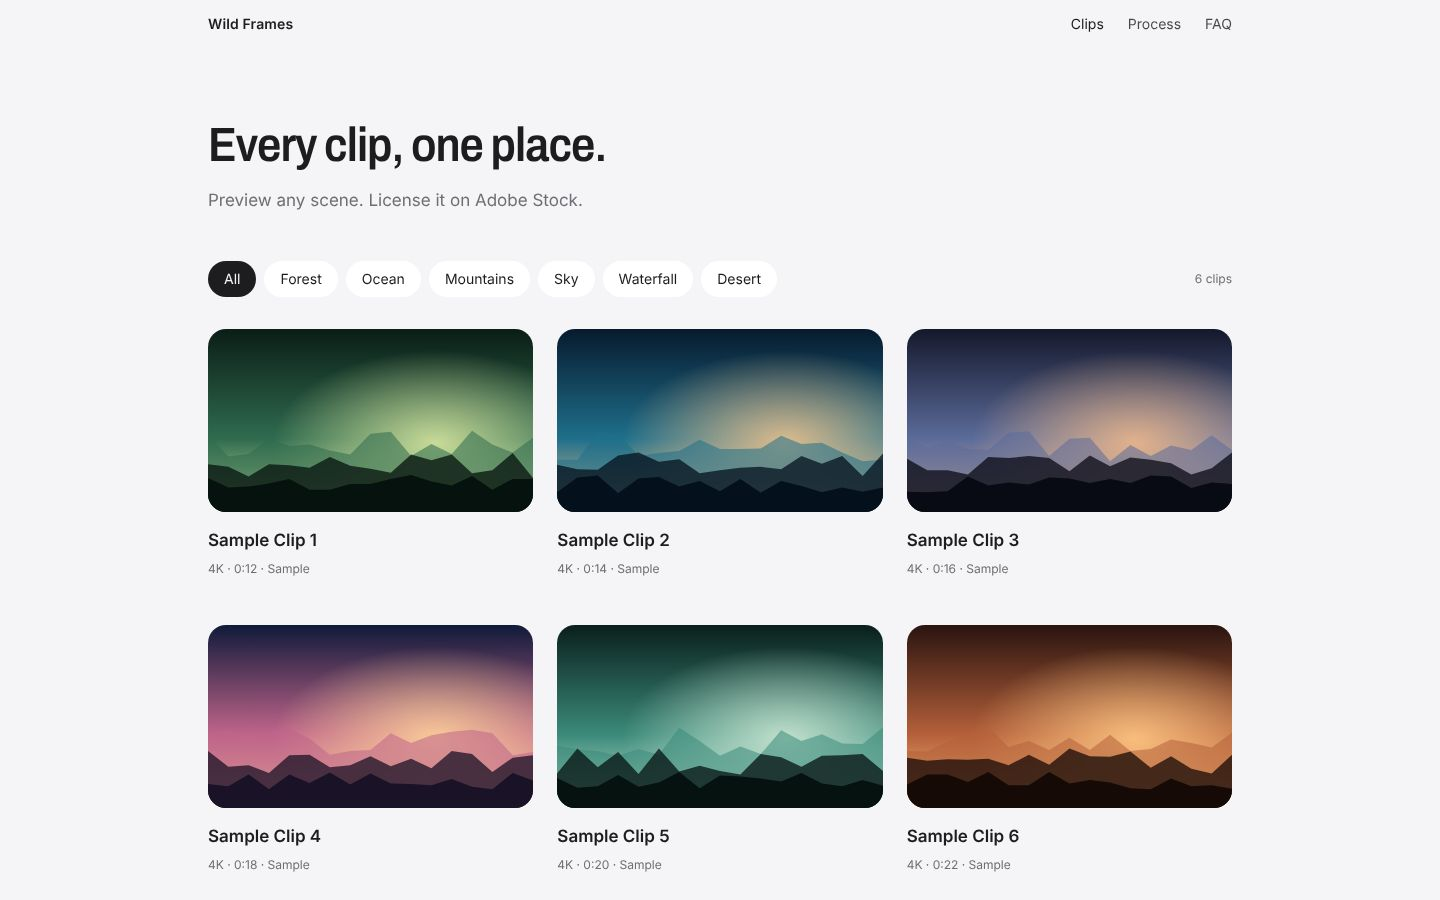
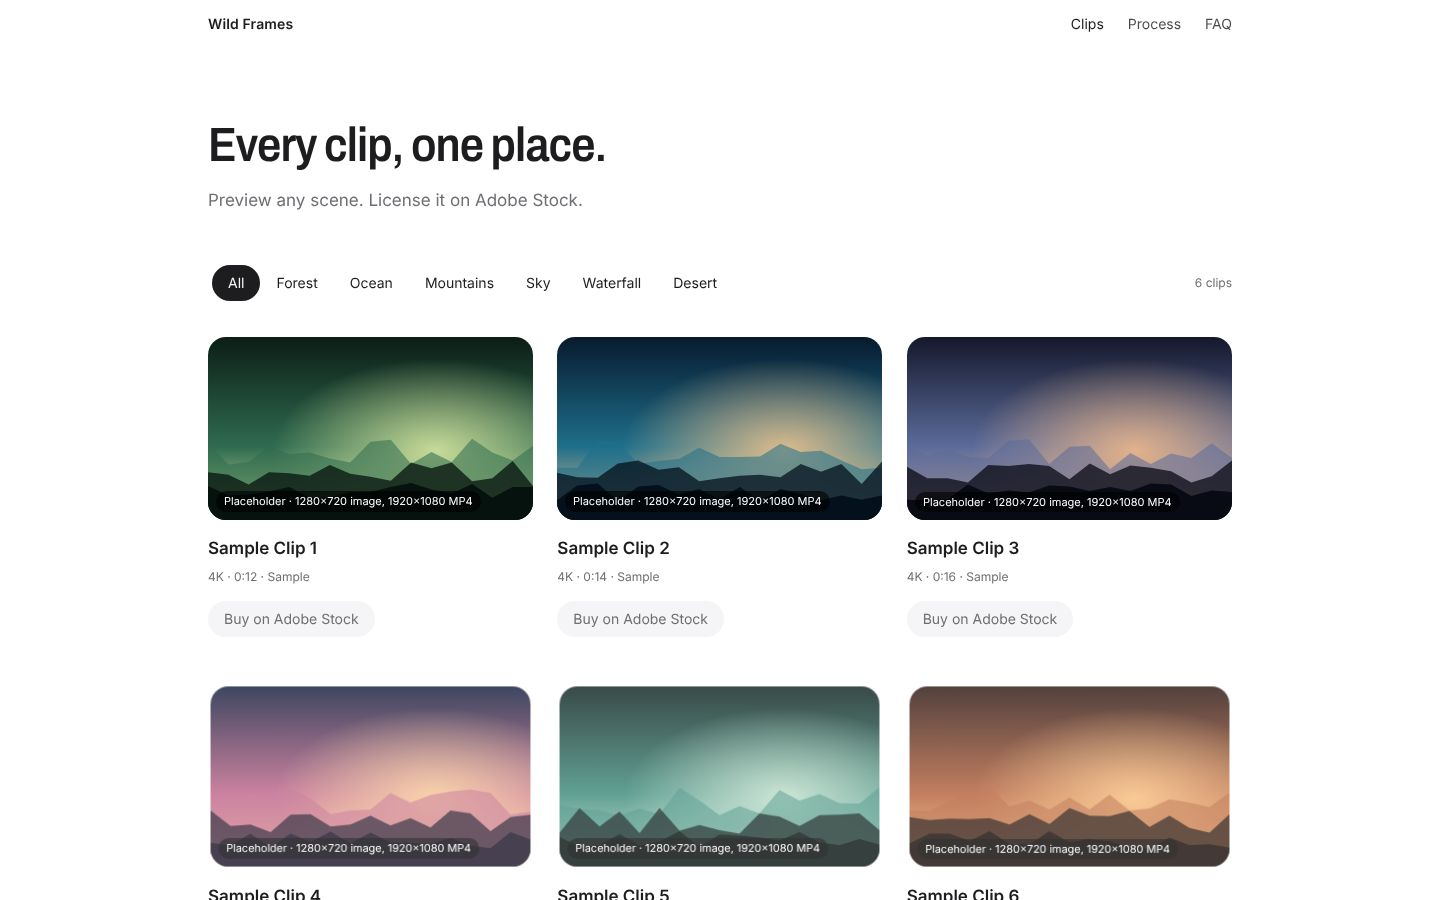
Full-screen video hero, scroll-linked media, card buy buttons
- Hero: full-screen muted looping footage under a 35% veil; 72px title
  (40px on phones), 20px #86868b line; title, line and button arrive on
  a spring, 800ms, 150ms apart
- Pictures in every section scale 0.92 → 1 and fade in tied to the
  scroll position (ease-out cubic)
- Card hover: 1.03 with a soft shadow, 400ms; each card gets a
  'Buy on <partner>' button (new tab, UTM; disabled without a real link)
- Light sections are white; 120px vertical padding everywhere
- Placeholder hero and cards say which sizes to replace them with
- About statement: unlit words at 50% so contrast stays AA

Claude-Session: https://claude.ai/code/session_01ApVQRqthSsRbe7yUhLm7Pv

Changed region(s): [[0.125, 0.6844, 0.875, 1.0], [0.125, 0.4667, 0.875, 0.6533], [0.125, 0.28, 0.8438, 0.4044]]

diff --git a/style.css b/style.css
@@ -7,6 +7,10 @@
   /* Surfaces and ink (only these) */
   --black: #000;
   --grey: #f5f5f7;
+  --hero-veil: rgba(0, 0, 0, .35);
+  --hero-sub: #86868b;
+  --fs-hero: clamp(40px, 4.4vw + 8px, 72px);
+  --shadow-soft: 0 24px 48px -20px rgba(0, 0, 0, .35);
   --white: #fff;
   --ink-on-dark: #f5f5f7;
   --ink-on-light: #1d1d1f;
@@ -16,7 +20,7 @@
   --accent: #0071e3;
   --accent-on-dark: #2997ff;
   --nav-dark: rgba(0, 0, 0, .72);
-  --nav-light: rgba(245, 245, 247, .72);
+  --nav-light: rgba(255, 255, 255, .72);
 
   /* Type */
   --font-display: "Archivo", "Arial Narrow", system-ui, sans-serif;
@@ -38,7 +42,7 @@
   --container: 1024px;
   --gutter: 24px;
   --pad-x: max(var(--gutter), calc((100% - var(--container)) / 2));
-  --section-y: var(--s6);
+  --section-y: var(--s8);   /* 120px everywhere */
   --nav-h: 48px;
   --pill-h: 44px;
   --chip-h: 36px;
@@ -55,7 +59,7 @@
 
 /* Theme per section: data-theme="dark" | "light" */
 [data-theme="dark"] { --bg: var(--black); --fg: var(--ink-on-dark); --fg2: var(--ink2-on-dark); --link: var(--accent-on-dark); }
-[data-theme="light"] { --bg: var(--grey); --fg: var(--ink-on-light); --fg2: var(--ink2-on-light); --link: var(--accent); }
+[data-theme="light"] { --bg: var(--white); --fg: var(--ink-on-light); --fg2: var(--ink2-on-light); --link: var(--accent); }
 [data-theme] { background: var(--bg); color: var(--fg); }
 
 /* ---------- Base ---------- */
@@ -129,13 +133,15 @@ html.reduced [data-reveal] { opacity: 1 !important; transform: none !important; 
 @media (max-width: 599px) { .nav-links { gap: var(--s2); } }
 
 /* ---------- Hero: one line, one sentence, one action; footage ≥ 60% of the first screen ---------- */
-.hero { position: relative; min-height: 100vh; min-height: 100svh; display: flex; flex-direction: column; }
-.hero-head { display: grid; justify-items: center; gap: var(--s2); padding: calc(var(--nav-h) + var(--s3)) var(--gutter) var(--s4); text-align: center; }
+.hero { position: relative; height: 100vh; height: 100svh; min-height: 560px; display: grid; place-items: center; overflow: hidden; }
+.hero-head { position: relative; z-index: 1; display: grid; justify-items: center; gap: var(--s2); padding: var(--nav-h) var(--gutter) 0; text-align: center; }
+.hero-title { font: 600 var(--fs-hero)/1.05 var(--font-display); font-stretch: 87.5%; letter-spacing: -.02em; color: var(--ink-on-dark); text-shadow: 0 2px 24px rgba(0, 0, 0, .25); }
+.hero-sub { font-size: 20px; line-height: 1.4; color: var(--hero-sub); }
+.hero-shade { position: absolute; inset: 0; background: var(--hero-veil); }
+.ph-note { position: absolute; z-index: 1; left: 50%; bottom: var(--s3); transform: translateX(-50%); max-width: calc(100% - 2 * var(--gutter)); padding: 4px 12px; border-radius: 980px; background: rgba(0, 0, 0, .6); color: var(--ink-on-dark); font: 400 var(--fs-small)/1.4 var(--font-text); text-align: center; }
 .hero-head .pill { margin-top: var(--s1); }
-@media (min-width: 834px) { .hero-head { padding-top: calc(var(--nav-h) + var(--s5)); padding-bottom: var(--s5); } }
 /* short laptop screens: tighter head so the footage still fills ≥ 60% */
-@media (min-width: 834px) and (max-height: 860px) { .hero-head { padding-top: calc(var(--nav-h) + var(--s4)); padding-bottom: var(--s4); } }
-.hero-media { position: relative; flex: 1 0 60vh; flex-basis: 60svh; overflow: hidden; background: var(--black); }
+.hero-media { position: absolute; inset: 0; overflow: hidden; background: var(--black); }
 .hero-media img, .hero-media video { position: absolute; inset: 0; width: 100%; height: 100%; object-fit: cover; }
 .hero-media video { opacity: 0; transition: opacity var(--dur-reveal) var(--ease-out); }
 .hero.video-on .hero-media video { opacity: 1; }
@@ -246,7 +252,7 @@ details[open] .faq-a { animation: fade-in var(--dur-fade) var(--ease-out); }
 .about .head { margin-bottom: 0; }
 .finale { display: grid; justify-items: center; gap: var(--s2); text-align: center; padding-block: var(--s9); }
 .finale .pill { margin-top: var(--s2); }
-@media (max-width: 833px) { .finale { padding-block: var(--s7); } }
+@media (max-width: 833px) { .finale { padding-block: var(--s8); } }
 
 /* ---------- Text buttons (modal, drawer) ---------- */
 .text-btn { display: inline-flex; align-items: center; min-height: var(--pill-h); padding: 0; border: 0; background: none; color: var(--link); font: 400 var(--fs-label)/var(--lh-label) var(--font-text); cursor: pointer; }
@@ -296,3 +302,10 @@ body.locked { overflow: hidden; }
   .filter { flex-direction: column; align-items: flex-start; }
   .film-skip { bottom: var(--s4); }
 }
+
+/* ---------- Card buy button, placeholder size tags ---------- */
+.card { display: grid; gap: var(--s2); align-content: start; }
+.card-buy { display: flex; }
+.pill-sm { min-height: 36px; padding: 0 var(--s2); font-size: var(--fs-label); }
+.pill[disabled] { background: var(--grey); color: var(--ink2-on-light); cursor: not-allowed; opacity: 1; }
+.ph-tag { position: absolute; left: var(--s1); bottom: var(--s1); z-index: 2; padding: 2px 8px; border-radius: 980px; background: rgba(0, 0, 0, .6); color: #fff; font: 400 11px/1.5 var(--font-text); }

diff --git a/apple.js b/apple.js
@@ -40,12 +40,10 @@
   }
   const heads = $$(".display, .title").filter((n) => !n.closest("dialog"));
   heads.forEach(split);
-  const hero = $(".hero h1");
-  // hero waits for the web font (style.css sets .fonts-ready ≤ 900ms), the rest wait for the scroll
-  const whenFonts = (fn) => (root.classList.contains("fonts-ready") ? fn() : new MutationObserver((_, o) => { if (root.classList.contains("fonts-ready")) { o.disconnect(); fn(); } }).observe(root, { attributes: true, attributeFilter: ["class"] }));
-  whenFonts(() => hero && hero.classList.add("in"));
+  // hero: title, line and button get their order; CSS starts them once fonts are ready (≤ 900ms)
+  $$(".hero-head > *").forEach((n, i) => n.style.setProperty("--i", i));
   const io = new IntersectionObserver((es) => es.forEach((e) => { if (e.isIntersecting) { e.target.classList.add("in"); io.unobserve(e.target); } }), { rootMargin: "0px 0px -12% 0px" });
-  heads.filter((n) => n !== hero).forEach((n) => io.observe(n));
+  heads.forEach((n) => io.observe(n));
 
   /* ---------- 2. About: a statement that lights up word by word ---------- */
   const about = $("#about .head p.body");
@@ -57,19 +55,15 @@
     words = $$(".sw", about);
   }
 
-  /* ---------- 3. cards: staggered rise (also after filtering) ---------- */
+  /* ---------- 3. pictures in sections: scale 0.92 → 1 and fade in, tied to the scroll (eased) ---------- */
   const grid = $("#grid");
-  const cardIO = new IntersectionObserver((es) => es.forEach((e) => {
-    if (!e.isIntersecting) return;
-    requestAnimationFrame(() => e.target.classList.remove("pre"));
-    cardIO.unobserve(e.target);
-  }), { rootMargin: "0px 0px -8% 0px" });
-  function prepCards() {
-    const cards = $$(":scope > .card", grid).filter((c) => !c.dataset.anim);
-    let k = 0;
-    cards.forEach((c) => { c.dataset.anim = "1"; c.classList.add("pre"); c.style.setProperty("--k", k++ % 3); cardIO.observe(c); });
-  }
-  if (grid) { new MutationObserver(prepCards).observe(grid, { childList: true }); prepCards(); }
+  let scrollMedia = [];
+  const collectMedia = () => {
+    scrollMedia = $$(".card-media, .split-media, .story-frame, .step-img").filter((n) => !n.closest("dialog"));
+    scrollMedia.forEach((n) => n.classList.add("sm"));
+    schedule();
+  };
+  if (grid) new MutationObserver(collectMedia).observe(grid, { childList: true });
 
   /* ---------- 4. category filter: segmented control with a sliding pill ---------- */
   const chips = $("#chips");
@@ -101,7 +95,7 @@
   if (count) new MutationObserver(() => { count.classList.remove("pop"); void count.offsetWidth; count.classList.add("pop"); }).observe(count, { childList: true, characterData: true, subtree: true });
 
   /* ---------- 6. scroll-linked: hero fold, free-sample scale, About words ---------- */
-  const heroEl = $(".hero"), media = $(".hero-media"), head = $(".hero-head"), free = $("#free-thumb");
+  const heroEl = $(".hero"), media = $(".hero-media"), head = $(".hero-head");
   let ticking = false;
   function frame() {
     ticking = false;
@@ -115,14 +109,14 @@
       head.style.transform = `translateY(${(-p * 60).toFixed(1)}px) scale(${(1 - p * 0.04).toFixed(4)})`;
       head.style.opacity = (1 - p * 1.4).toFixed(3);
     }
-    // free sample: grows from 88% with large corners into place
-    if (free && free.offsetParent) {
-      const r = free.getBoundingClientRect();
-      if (r.top < vh && r.bottom > 0) {
-        const p = clamp((vh - r.top) / (vh * 0.75));
-        free.style.transform = `scale(${(0.88 + p * 0.12).toFixed(4)})`;
-      }
-    }
+    // pictures: 0.92 → 1 and 0 → 1 while their top travels from the bottom edge to 45% of the screen (ease-out cubic)
+    scrollMedia.forEach((n) => {
+      if (!n.offsetParent) return;
+      const r = n.getBoundingClientRect();
+      const p = clamp((vh - r.top) / (vh * 0.55)), e = 1 - Math.pow(1 - p, 3);
+      n.style.scale = (0.92 + e * 0.08).toFixed(4);
+      n.style.opacity = e.toFixed(3);
+    });
     // About: words light up between 85% and 40% of the screen height
     if (words.length) {
       const r = about.getBoundingClientRect();
@@ -218,5 +212,6 @@
   const schedule = () => { if (!ticking) { ticking = true; requestAnimationFrame(frame); } };
   window.addEventListener("scroll", schedule, { passive: true });
   window.addEventListener("resize", schedule, { passive: true });
+  collectMedia();
   frame();
 })();

diff --git a/apple.css b/apple.css
@@ -15,20 +15,25 @@
 .anim .split.in .mi { transform: none; opacity: 1; filter: none; }
 
 /* ---------- Hero: keynote entrance, then the footage folds into a card as you scroll ---------- */
-.anim .hero-media > img, .anim .hero-media > video:not([hidden]) { transform: scale(1.12); transition: transform 1.8s var(--e-apple), opacity 1s var(--e-apple); }
+.anim .hero-media > img, .anim .hero-media > video { transform: scale(1.12); transition: transform 1.8s var(--e-apple), opacity 1s var(--e-apple); }
 .anim.fonts-ready .hero-media > img, .anim.fonts-ready .hero-media > video { transform: none; }
 .anim .hero-media { transform-origin: 50% 0; will-change: transform, clip-path; }
 .anim .hero-head { will-change: transform, opacity; }
 .anim .nav { animation: nav-in .9s var(--e-apple) .15s both; }
 @keyframes nav-in { from { transform: translateY(-100%); opacity: 0; } }
 
-/* ---------- Cards: staggered rise, image breathes in on hover, spring press ---------- */
-.anim .card.pre { opacity: 0; transform: translateY(48px) scale(.96); }
-.anim .card { transition: opacity .9s var(--e-apple), transform 1s var(--e-apple); transition-delay: calc(var(--k, 0) * 70ms); }
-.card-thumb, .card-video { transition: transform .9s var(--e-apple), opacity .3s var(--e-apple); }
-.card-hit:hover .card-thumb, .card-hit:hover .card-video { transform: scale(1.05); }
+/* ---------- Hero: title, line and button arrive on a spring, 800ms, 150ms apart ---------- */
+.anim .hero-head > * { opacity: 0; transform: translateY(32px) scale(.96); transition: opacity .8s var(--e-apple), transform .8s var(--e-spring); transition-delay: calc(var(--i, 0) * 150ms + 100ms); }
+.anim.fonts-ready .hero-head > * { opacity: 1; transform: none; }
+
+/* ---------- Cards: hover lifts the whole card (1.03) with a soft shadow, 400ms ---------- */
+.card { transition: transform .4s var(--e-apple); }
+.card-media { transition: box-shadow .4s var(--e-apple), transform .45s var(--e-spring); }
+.card:hover { transform: scale(1.03); }
+.card:hover .card-media { box-shadow: var(--shadow-soft); }
 .card-hit:active .card-media { transform: scale(.97); }
-.card-media { transition: transform .45s var(--e-spring); }
+/* scroll-linked media (apple.js sets scale + opacity from the scroll position) */
+.anim .sm { will-change: scale, opacity; }
 
 /* ---------- Buttons: spring press ---------- */
 .pill, .chip, .text-btn, .more { transition: opacity .25s var(--e-apple), transform .45s var(--e-spring), color .3s var(--e-apple); }
@@ -43,7 +48,7 @@
 
 /* ---------- Statement: words light up as you read (About) ---------- */
 .statement { max-width: 22ch; font: 600 var(--fs-section)/1.12 var(--font-display); font-stretch: 87.5%; letter-spacing: -.02em; color: var(--fg); }
-.statement .sw { opacity: .18; transition: opacity .35s var(--e-apple); }
+.statement .sw { opacity: .5; transition: opacity .35s var(--e-apple); }
 .statement .sw.lit { opacity: 1; }
 
 /* ---------- Free sample: picture scales up into place ---------- */
@@ -74,7 +79,7 @@
 @keyframes pop { 40% { transform: scale(1.45); } }
 
 @media (prefers-reduced-motion: reduce) {
-  .anim .split .mi, .anim .card.pre { transform: none !important; opacity: 1 !important; filter: none !important; }
+  .anim .split .mi { transform: none !important; opacity: 1 !important; filter: none !important; }
   .statement .sw { opacity: 1; }
 }
 

diff --git a/index.html b/index.html
@@ -61,16 +61,19 @@
 
   <main id="top">
     <section class="hero" id="hero" data-theme="dark">
-      <div class="hero-head">
-        <h1 class="display" data-reveal>Nature,<span class="br-sm"></span> rendered.</h1>
-        <p class="body" data-reveal style="--d:100ms">Photoreal 4K stock footage,<span class="br-sm"></span> built in Unreal Engine 5.</p>
-        <a class="pill" href="#clips" data-reveal style="--d:200ms">Browse clips</a>
-      </div>
+      <!-- Full-screen footage behind the headline, muted and looping, under a 35% dark veil -->
       <div class="hero-media">
         <img id="hero-poster" src="assets/thumbs/sample-1.svg" alt="" width="1920" height="1080" fetchpriority="high" decoding="async">
         <video id="hero-video" muted loop playsinline preload="none" tabindex="-1" aria-hidden="true"></video>
-        <button id="hero-toggle" class="media-toggle" type="button" aria-pressed="false" hidden>Pause</button>
+        <div class="hero-shade" aria-hidden="true"></div>
       </div>
+      <div class="hero-head">
+        <h1 class="hero-title">Nature,<span class="br-sm"></span> rendered.</h1>
+        <p class="hero-sub">Photoreal 4K stock footage,<span class="br-sm"></span> built in Unreal Engine 5.</p>
+        <a class="pill" href="#clips">Browse clips</a>
+      </div>
+      <p class="ph-note" id="hero-ph" hidden>Placeholder — replace with a 3840×2160 MP4 loop (≤ 8 MB) and a 1920×1080 poster</p>
+      <button id="hero-toggle" class="media-toggle" type="button" aria-pressed="false" hidden>Pause</button>
     </section>
 
     <!-- Sticky footage while the captions change (hidden unless site.json has "sequence") -->
@@ -113,7 +116,7 @@
 
     <section id="free-sample" class="section wrap" data-theme="dark" aria-labelledby="free-title" hidden>
       <div class="split grid12">
-        <img class="split-media" id="free-thumb" src="assets/thumbs/sample-1.svg" alt="" width="1280" height="720" loading="lazy" decoding="async" data-reveal>
+        <img class="split-media" id="free-thumb" src="assets/thumbs/sample-1.svg" alt="" width="1280" height="720" loading="lazy" decoding="async">
         <div class="split-text">
           <h2 id="free-title" class="title" data-reveal>Try one clip free.</h2>
           <p id="free-desc" class="body muted" data-reveal style="--d:100ms">A 720p version of a real clip. No sign-up.</p>
@@ -434,6 +437,7 @@
 {
   "_note": "SAMPLE DATA. Replace every [YOUR_...] value. Values that are empty or still contain [YOUR_ are treated as missing: the button or block that needs them is hidden.",
   "brandName": "Wild Frames",
+  "partnerName": "Adobe Stock",
   "ownerName": "[YOUR_NAME]",
   "tagline": "Photoreal 4K nature footage, built in Unreal Engine 5.",
   "sequence": {

diff --git a/script.js b/script.js
@@ -138,6 +138,7 @@
 
   function initHero(clip) {
     if (!clip) return;
+    $("#hero-ph").hidden = !clip.sample;
     const poster = clip.poster || clip.thumbnail;
     const posterEl = $("#hero-poster");
     if (poster && posterEl.getAttribute("src") !== poster) posterEl.src = poster;
@@ -317,10 +318,15 @@
     const meta = [v.resolution, v.duration, v.sample ? "Sample" : ""].filter(Boolean).join(" · ");
     const thumb = el("img", { class: "card-thumb", src: v.thumbnail, alt: "", loading: "lazy", width: "640", height: "360", decoding: "async" });
     const hit = el("button", { class: "card-hit", type: "button" }, [
-      el("span", { class: "card-media" }, [thumb]),
+      el("span", { class: "card-media" }, [thumb, v.sample ? el("span", { class: "ph-tag", text: "Placeholder · 1280×720 image, 1920×1080 MP4" }) : null]),
       el("span", { class: "card-cap" }, [el("span", { class: "card-title", text: v.title }), el("span", { class: "small", text: meta })]),
     ]);
-    const cardEl = el("article", { class: "card", "data-id": v.id }, [hit]);
+    // buy button: opens the partner page in a new tab; without a real link it stays disabled (never "#")
+    const url = buyUrl(v), partner = isReal(site.partnerName) ? site.partnerName : "Adobe Stock";
+    const buy = url
+      ? el("a", { class: "pill pill-sm", href: withUtm(url, v.id), target: "_blank", rel: "noopener noreferrer", "data-track": "buy_click", "data-clip": v.id, text: `Buy on ${partner}` })
+      : el("button", { class: "pill pill-sm", type: "button", disabled: true, title: "Link coming soon", text: `Buy on ${partner}` });
+    const cardEl = el("article", { class: "card", "data-id": v.id }, [hit, el("div", { class: "card-buy" }, [buy])]);
     hit.addEventListener("click", () => openClip(v.id, hit));
     if (M.finePointer) {
       cardEl.addEventListener("mouseenter", () => play(cardEl, v.preview));

diff --git a/README.md b/README.md
@@ -34,6 +34,21 @@ Nền xen kẽ đen / xám nhạt, mỗi màn một ý, một hành động:
 
 Hero (đen: một dòng, một câu, nút **Browse clips**, footage full-bleed) → Film (đen: khung footage đứng yên, chữ đổi khi cuộn) → Clips (sáng: lọc theo category, thẻ clip, Show more) → Free sample (đen) → Process (sáng: ảnh đứng yên, 4 bước cuộn qua) → FAQ (đen) → About (sáng) → CTA cuối (đen, căn giữa) → footer.
 
+## Chuyển động và tương tác (apple.css + apple.js)
+
+Bật cho mọi người, tắt hết khi người xem bật "giảm chuyển động". Chỉ dùng transform / opacity / filter / clip-path.
+
+- **Hero:** video toàn màn hình (tắt tiếng, lặp) dưới lớp tối 35%. Tiêu đề 72px (điện thoại 40px), dòng phụ 20px màu `#86868b`. Khi tải trang: tiêu đề, dòng phụ, nút hiện lần lượt bằng spring 800ms, cách nhau 150ms. Khi cuộn: video thu lại thành khung bo góc, tiêu đề nhấc lên và mờ đi.
+- **Ảnh/video trong các section:** phóng từ 0.92 lên 1 và hiện dần từ 0 lên 1, gắn với vị trí cuộn (đường cong ease-out, không tuyến tính).
+- **Tiêu đề section:** từng chữ trồi lên khỏi mặt nạ, hơi mờ rồi nét (kiểu keynote).
+- **Thẻ clip:** hover phóng 1.03, bóng đổ mềm, 400ms. Có chuột: thẻ nghiêng nhẹ ≤ 4° theo chuột, có vệt sáng chạy theo con trỏ.
+- **Bấm vào thẻ:** ảnh "bay" thành khung video trong cửa sổ chi tiết (View Transitions); các dòng thông tin hiện lần lượt.
+- **Bộ lọc:** dạng segmented control, viên chọn trượt có độ nảy kiểu Telegram. Số "Saved" nảy khi thay đổi.
+- **About:** câu giới thiệu sáng dần từng chữ khi đọc tới.
+- **Có chuột:** nền hero dịch chiều sâu theo chuột; nút hút nhẹ ≤ 6px về phía chuột (nút mua không bao giờ di chuyển); menu có viên sáng trượt theo mục đang rê.
+- **Nút mua trên mỗi thẻ:** "Buy on Adobe Stock" (đổi tên đối tác ở `site.json → partnerName`), mở tab mới. Chưa có link thật thì nút xám, không bấm được.
+- **Placeholder:** hero và từng thẻ có nhãn ghi kích thước cần thay (video hero 3840×2160 MP4 ≤ 8MB + poster 1920×1080; thẻ: ảnh 1280×720, preview 1920×1080 MP4).
+
 ## Thêm clip mới (`videos.json`)
 
 ```json
